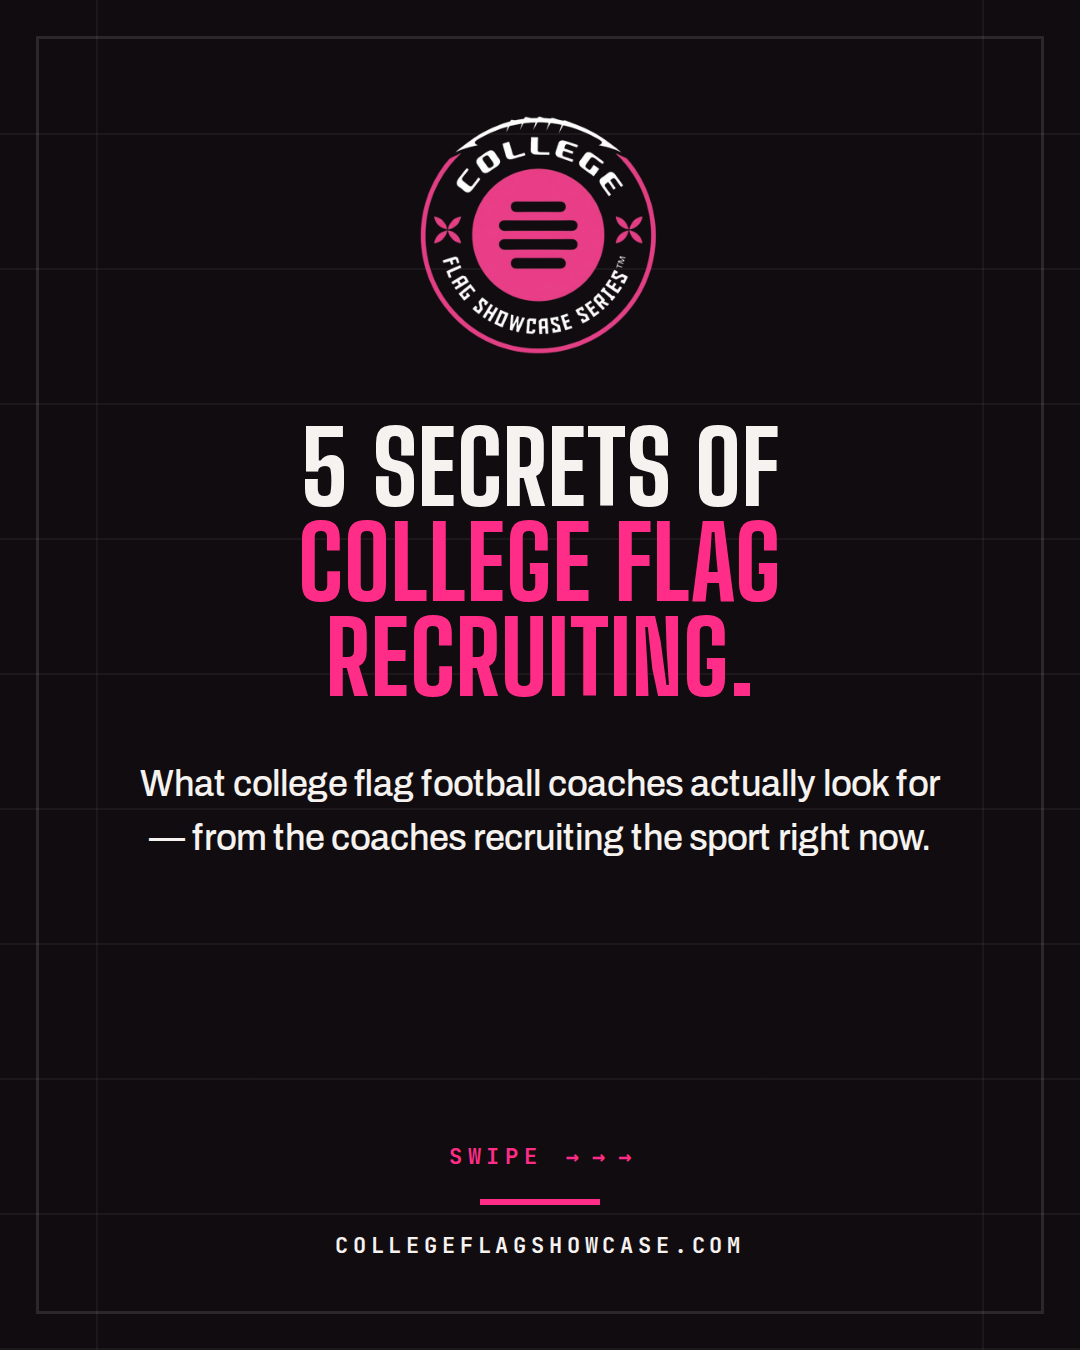
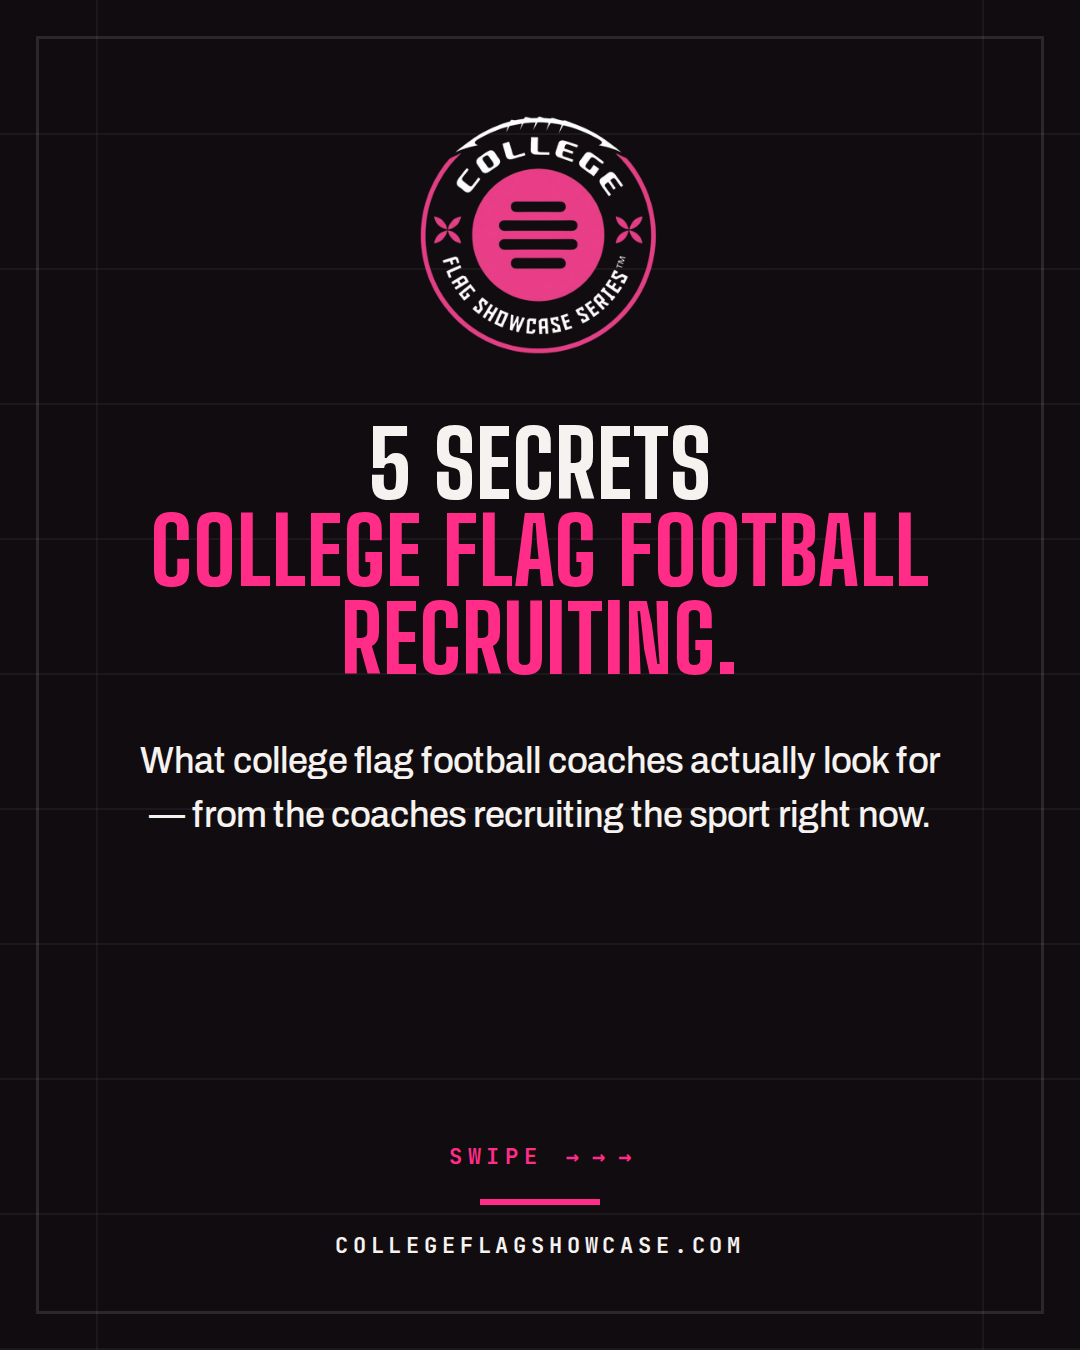
Retitle secrets carousel cover per founder
Claude-Session: https://claude.ai/code/session_019V32boShoBmRrwWenCPJFc

Changed region(s): [[0.1222, 0.3111, 0.8861, 0.6533]]

diff --git a/collateral/ig-carousel-secrets.html b/collateral/ig-carousel-secrets.html
@@ -25,7 +25,7 @@
   .inner{position:absolute;inset:0;display:flex;flex-direction:column;align-items:center;text-align:center;padding:110px 110px 90px}
 
   .logo{width:250px;height:250px}
-  .cover-title{margin-top:60px;font-family:var(--display);font-weight:800;text-transform:uppercase;line-height:.95;letter-spacing:.01em;font-size:100px}
+  .cover-title{margin-top:60px;font-family:var(--display);font-weight:800;text-transform:uppercase;line-height:.95;letter-spacing:.01em;font-size:92px}
   .cover-title em{font-style:normal;color:var(--red);display:block}
   .cover-body{margin-top:52px;font-size:36px;line-height:1.5;font-weight:500;color:var(--chalk);max-width:840px}
 
@@ -51,7 +51,7 @@
   <div class="yards"></div><div class="hash l"></div><div class="hash r"></div><div class="frame"></div>
   <div class="inner">
     <img class="logo" src="../public/logo.png" alt="College Flag Showcase Series" />
-    <h1 class="cover-title">5 secrets of<em>college flag<br />recruiting.</em></h1>
+    <h1 class="cover-title">5 secrets<em>college flag football<br />recruiting.</em></h1>
     <p class="cover-body">What college flag football coaches actually look for &mdash; from the coaches recruiting the sport right now.</p>
     <p class="swipe">Swipe<span>&nbsp;&rarr;&nbsp;&rarr;&nbsp;&rarr;</span></p>
     <div class="rule cover-rule"></div>
